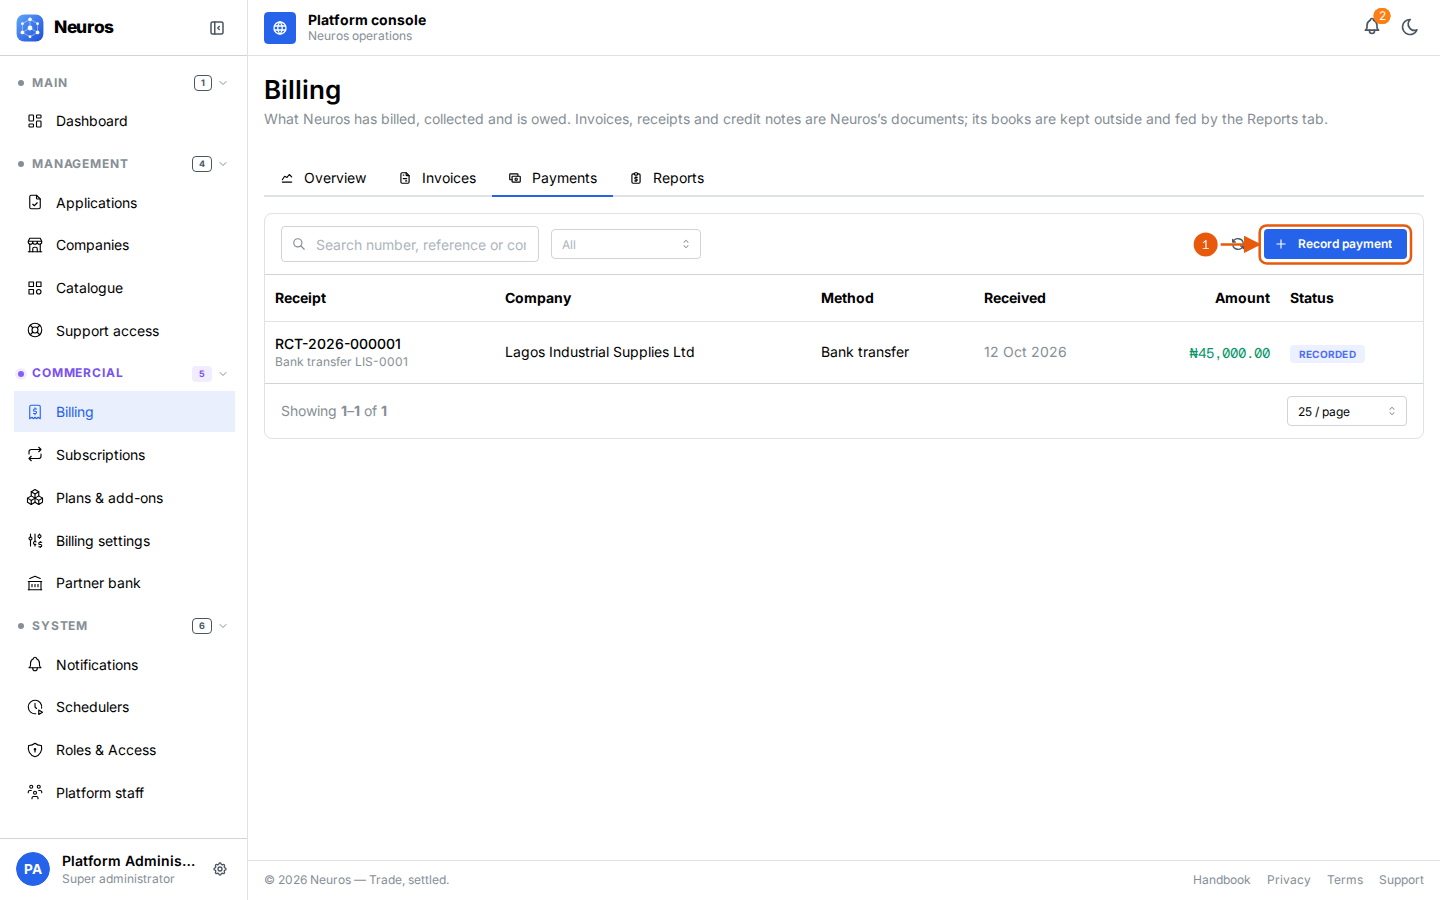
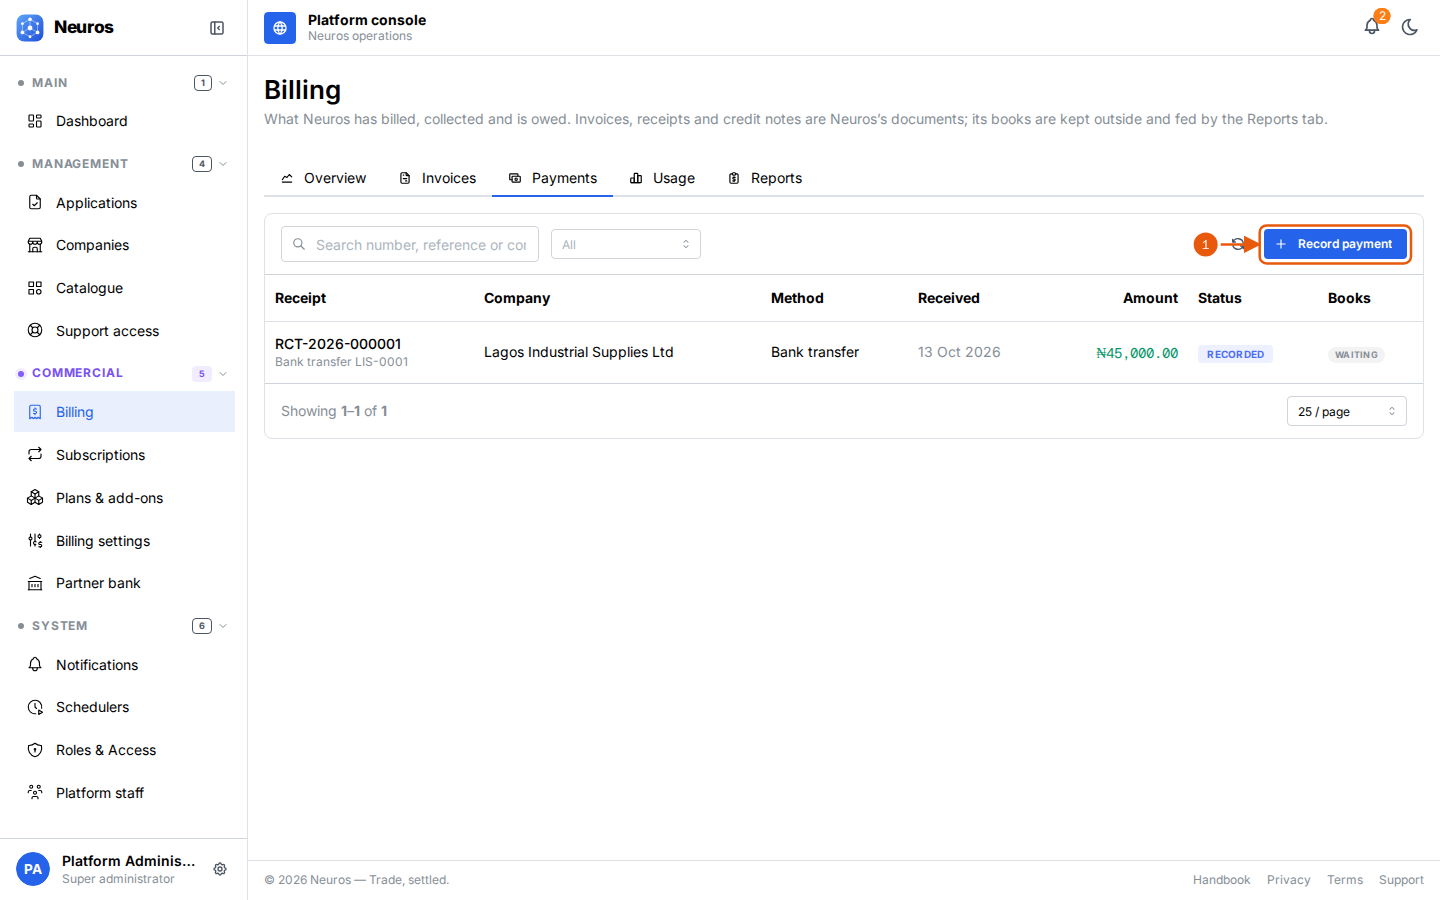
K6: usage, usage prices, a company's own prices, the books (Zoho Billing)
Feature page and glossary: usage meters, allowances, rate cards, transaction
fee, statements and usage invoices, the books. Settings → Billing → Usage for
each persona; operator Billing → Usage (a company, adjust), books on invoices
and payments, plan usage prices and a subscription's own prices; API guide for
Zoho's payment webhook. Shots captured; API reference regenerated.

diff --git a/capture/scenarios/operator.ts b/capture/scenarios/operator.ts
@@ -93,11 +93,25 @@ const scenarios: Scenario[] = [
   shot('billing/payment-new', '/platform/billing?tab=payments', 'Record payment', { steps: click('Record payment'), fullPage: true }),
   shot('billing/payment', '/platform/billing?tab=payments', 'A payment', { steps: firstRow }),
   shot('billing/reports', '/platform/billing?tab=reports', 'Billing: reports', { fullPage: true }),
+  shot('billing/usage', '/platform/billing?tab=usage', 'Billing: usage', {
+    callouts: [
+      { n: 1, target: { role: 'textbox', name: 'Month' }, text: 'This month so far, or one of the eleven before it.', side: 'bottom' },
+      { n: 2, target: { text: /^Usage charge$/ }, text: 'What each company’s usage comes to at its rates, the largest first.', side: 'bottom' },
+    ],
+  }),
+  shot('billing/usage-company', '/platform/billing?tab=usage', 'A company’s usage', { steps: row('Lagos Industrial Supplies Ltd'), fullPage: true }),
+  shot('billing/usage-adjust', '/platform/billing?tab=usage', 'Adjust usage', {
+    steps: async (page) => { await row('Lagos Industrial Supplies Ltd')(page); await page.getByRole('button', { name: 'Adjust', exact: true }).click(); },
+  }),
   shot('subscriptions/list', '/platform/subscriptions', 'Subscriptions', {
     callouts: [{ n: 1, target: { role: 'button', name: 'New subscription' }, text: 'Put a company on a plan.', side: 'left' }],
   }),
   shot('subscriptions/new', '/platform/subscriptions', 'New subscription', { steps: click('New subscription'), fullPage: true }),
   shot('subscriptions/detail', '/platform/subscriptions', 'A subscription', { steps: row('Lagos Industrial Supplies Ltd'), fullPage: true }),
+  shot('subscriptions/own-prices', '/platform/subscriptions', 'Own usage prices', {
+    steps: async (page) => { await row('Lagos Industrial Supplies Ltd')(page); await page.getByRole('button', { name: 'Own usage prices' }).click(); },
+    fullPage: true,
+  }),
   shot('plans/plans', '/platform/plans', 'Plans & add-ons: plans', {
     callouts: [
       { n: 1, target: { role: 'tab', name: 'Add-ons' }, text: 'Plans, and the add-ons a company can buy on top.', side: 'bottom' },
@@ -105,6 +119,7 @@ const scenarios: Scenario[] = [
     ],
   }),
   shot('plans/plan-new', '/platform/plans', 'New plan', { steps: click('New plan'), fullPage: true }),
+  shot('plans/usage-prices', '/platform/plans', 'Usage prices', { steps: click('Usage prices for Growth'), fullPage: true }),
   shot('plans/add-ons', '/platform/plans?tab=add-ons', 'Plans & add-ons: add-ons'),
   shot('plans/add-on-new', '/platform/plans?tab=add-ons', 'New add-on', { steps: click('New add-on'), fullPage: true }),
   shot('billing-settings/business', '/platform/billing-settings?tab=business', 'Billing settings: business details', { fullPage: true }),

diff --git a/capture/walk.ts b/capture/walk.ts
@@ -525,6 +525,7 @@ export function walk(w: Walk): Scenario[] {
     shot('settings/company-capabilities', '/settings?tab=company', 'My company: capabilities', { steps: tab(/Capabilities/) }),
     shot('settings/company-log', '/settings?tab=company', 'My company: change log', { steps: tab(/Change log/) }),
     shot('settings/billing', '/settings?tab=billing', 'Settings: billing', { fullPage: true }),
+    shot('settings/billing-usage', '/settings?tab=billing', 'Billing: usage', { steps: tab('Usage'), fullPage: true }),
     shot('settings/support', '/settings?tab=support', 'Settings: support access'),
   ];
 
